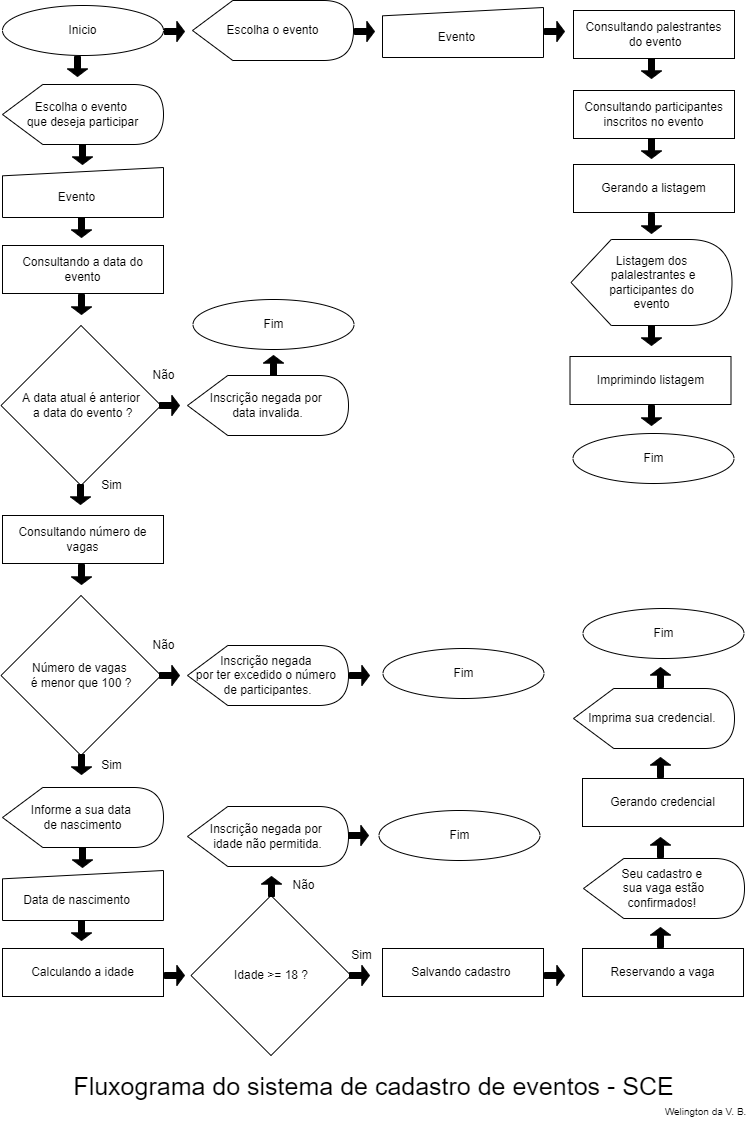
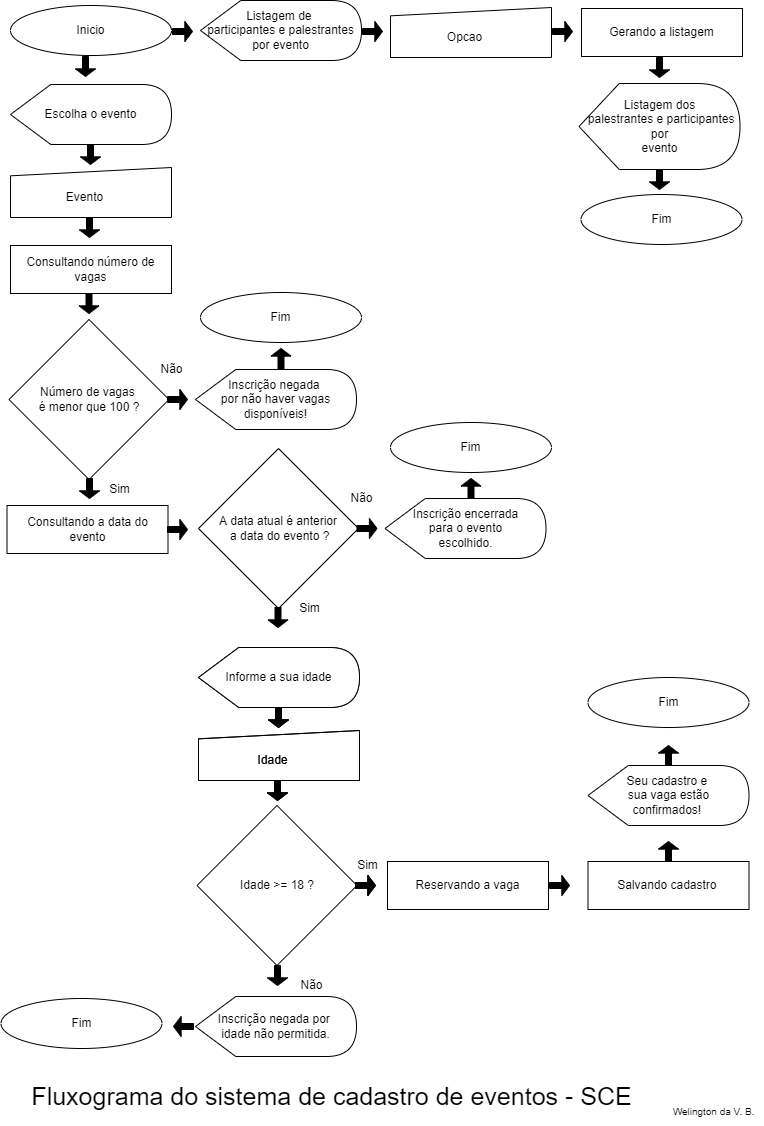
Alteracao do fluxograma

diff --git a/README.md b/README.md
@@ -1,7 +1,74 @@
 # uc8-atividade1
 
-Atividade 1 do modulo uc8 : Sistema de Cadastro de Eventos
+Atividade 1 do modulo uc8 : Sistema de Cadastro de Eventos.
 
 Fluxograma criado na ferramenta on-line draw.io
 
 Link : https://app.diagrams.net/
+
+-----------------------------------------------------------
+
+Fluxograma atualizado
+
+-----------------------------------------------------------
+
+passos-logicos-cadastrar-participante-no-evento
+
+INICIO
+
+Fazer com que o programação execute o menu iniciar
+
+Escolher entre a opcao 1 - cadastrar no evento ou 2 - imprimir listagem por evento
+
+Fazer com que o programação execute o menu principal
+
+Escolher entre a opcao cadastrar : 1 - sim ou ENTER - não
+
+Informar o numero do evento desejado
+
+Fazer com que o programação verique as vagas
+
+Informar o nome completo
+
+Informar a idade em anos
+
+Fazer com que o programação verique as datas
+
+Fazer com que o programação verique a idade
+
+Fazer com que o programação reserve a vaga
+
+Fazer com que o programação salve o cadastro
+
+Apresentar informação de sucesso ou não do cadastro
+
+Escolher entre a opcao cadastrar : 1 - sim ou ENTER - não, caso exista vaga disponivel
+
+Fazer com que o programação execute o menu iniciar
+
+Escolher entre a opcao 100 para sair do programa
+
+FIM
+
+-----------------------------------------------------------
+
+passos-logicos-listagem-participantes-palestrantes-por-evento
+
+INICIO
+
+Fazer com que o programação execute o menu iniciar
+
+Escolher entre a opcao 1 - cadastrar no evento ou 2 - imprimir listagem por evento
+
+Fazer com que o programação gere a listagem de participantes e palestrantes por evento
+
+Apresentar a listagem
+
+Fazer com que o programação execute o menu iniciar
+
+Escolher entre a opcao 100 para sair do programa
+
+FIM
+
+
+
